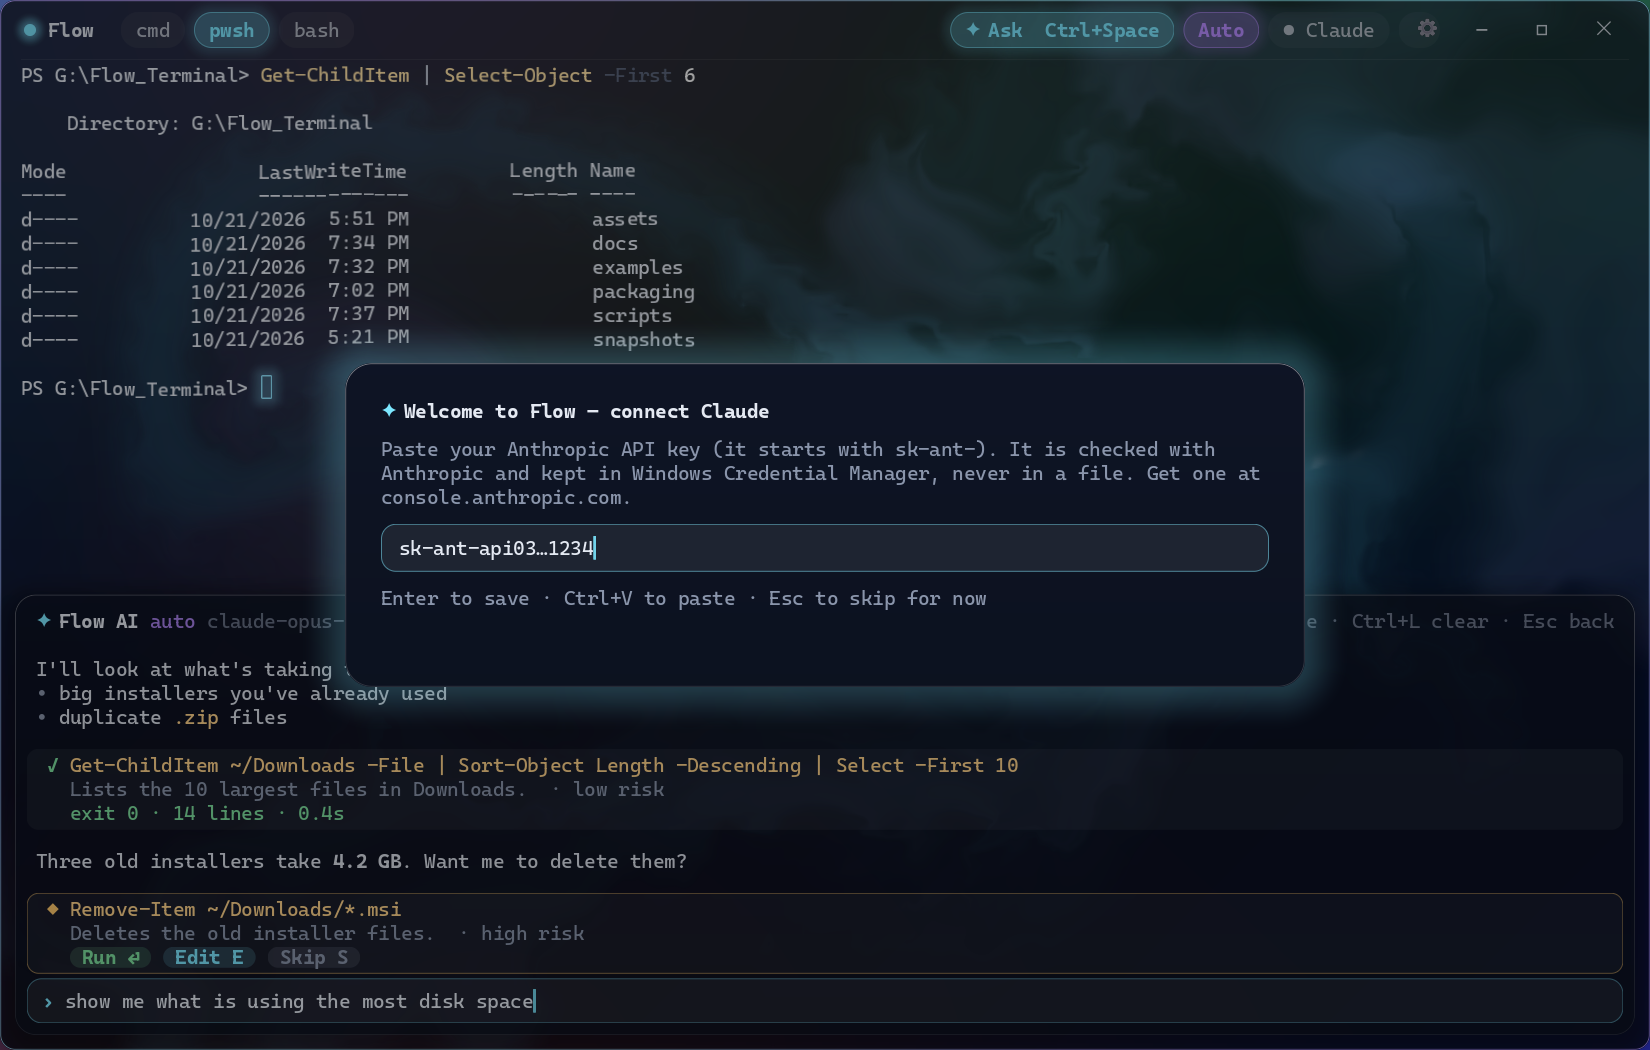
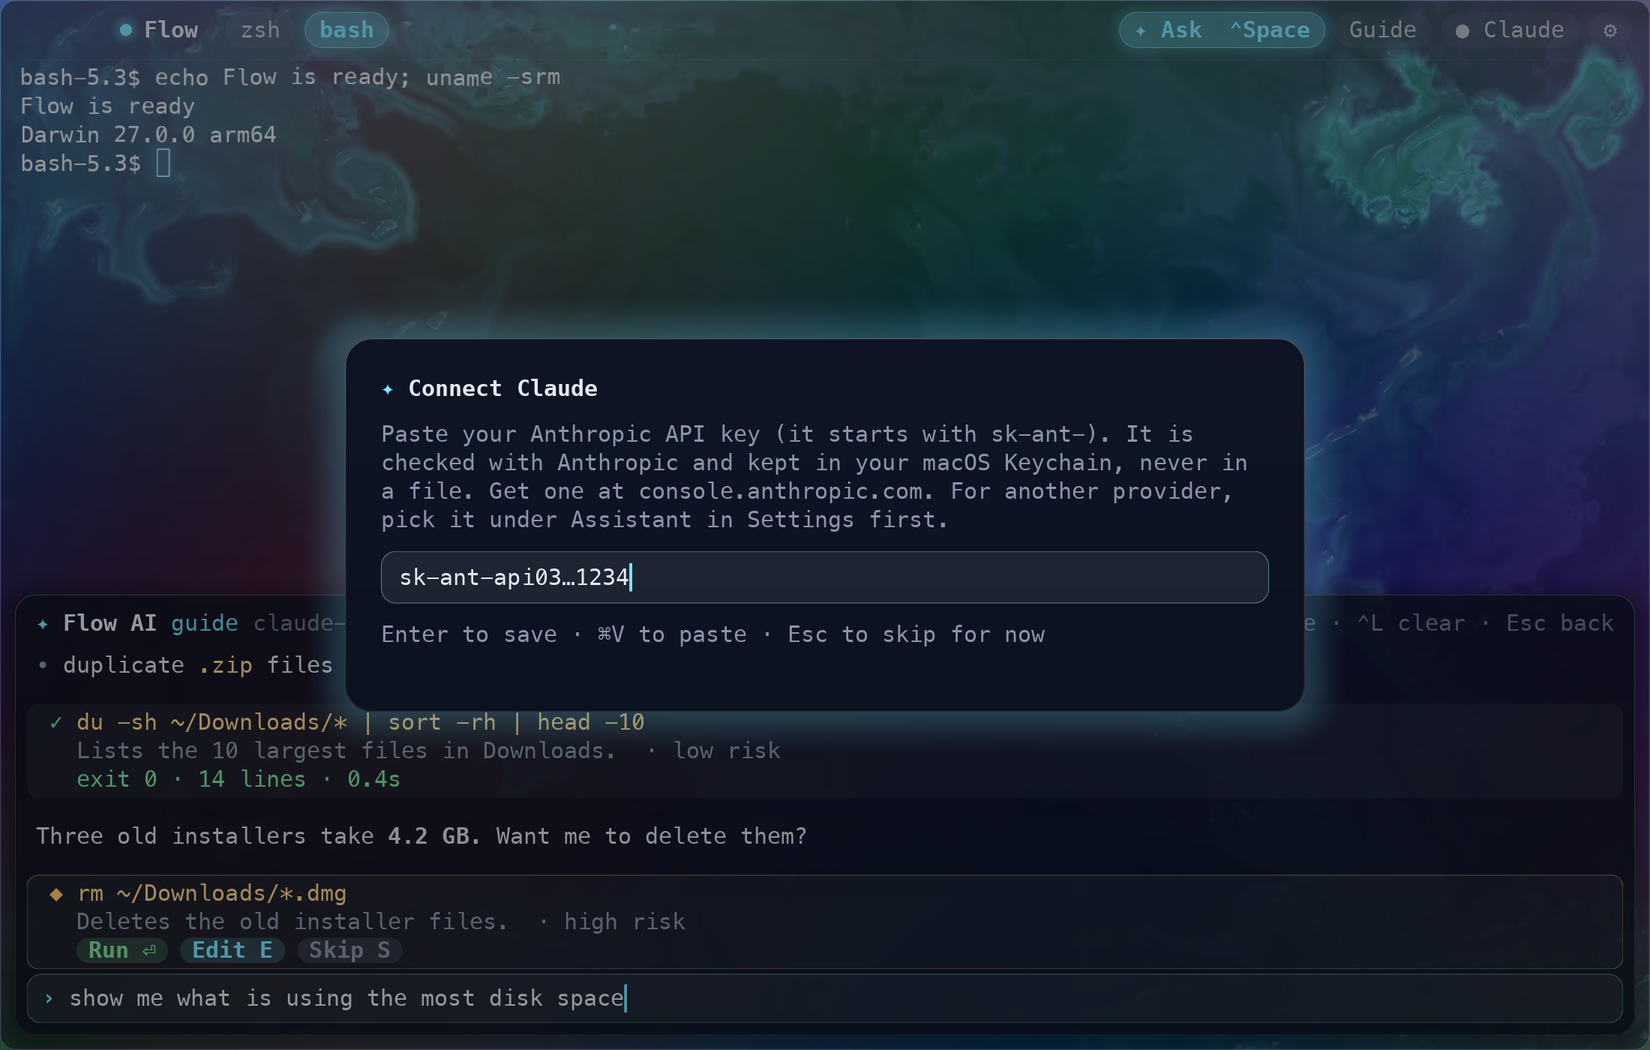
Describe GPT and Gemini, the key in Settings and the rain style
The Mac's 0.1.6 lets users pick Claude, GPT or Gemini and add the key in Settings instead of a first-start prompt, which Windows still has. Adds the rain animation, remakes the underwater one with the new bubbles, and updates the key dialog and Settings pictures.

diff --git a/README.md b/README.md
@@ -5,14 +5,15 @@
 <h1 align="center">Flow</h1>
 
 <p align="center">
-  A terminal for Windows and macOS with a liquid-glass look and Claude built in.<br>
+  A terminal for Windows and macOS with a liquid-glass look and an AI assistant built in.<br>
   <a href="https://github.com/arcanii/Flow-releases/releases/latest"><b>Download for Windows</b></a> ·
   <a href="https://github.com/arcanii/Flow-releases/releases/tag/v0.1.6-macos"><b>Download for macOS</b></a>
 </p>
 
 Type commands as usual, or describe what you want in plain English. The
 assistant suggests the steps or runs them in your shell, and asks first before
-anything risky.
+anything risky. It's Anthropic's Claude, or on the Mac, if you prefer, OpenAI's
+GPT or Google's Gemini.
 
 On Windows, cmd, PowerShell and bash each get a tab. If you don't have Git
 Bash, MSYS2 or WSL, Flow brings its own bash: BusyBox, a small POSIX shell with
@@ -43,7 +44,18 @@ Pick a style in Settings, and slow it down if you like:
     <td><b>Water from below</b>: light shafts and bubbles</td>
     <td><b>Oil</b>: a glossy, thin-film sheen</td>
   </tr>
+  <tr>
+    <td><img src="images/rain.webp" alt="Rain on the window"></td>
+    <td></td>
+  </tr>
+  <tr>
+    <td><b>Rain</b> on a fogged window: drops run down and grow, and your cursor wipes the glass</td>
+    <td></td>
+  </tr>
 </table>
+
+In Settings you can also pick the terminal's font from the monospaced fonts on
+your computer.
 
 ## Download
 
@@ -72,10 +84,20 @@ macOS 11 or later.
   **Flow → Check for Updates…** checks on demand.
 - `SHA256SUMS-macos.txt` in each macOS release lists the checksum.
 
-The assistant needs an Anthropic API key. Flow asks for it on first start and
-keeps it in Windows Credential Manager or the macOS Keychain.
+## The assistant
 
-![The first-run dialog that asks for an Anthropic API key](images/key.png)
+The assistant needs an API key from its provider, which Flow keeps in Windows
+Credential Manager or the macOS Keychain.
+
+- **On the Mac** (0.1.6 and later), Flow works as a terminal without a key and
+  never asks for one on its own. Open Settings (⌘,), pick the **Provider**
+  under Assistant (Claude, GPT or Gemini), and add that provider's key under
+  **API key**. Each provider keeps its own key. GPT and Gemini are new, so
+  expect some rough edges.
+- **On Windows**, the assistant uses Claude, and Flow asks for an Anthropic key
+  on first start.
+
+![Adding an API key](images/key.png)
 
 ## More screenshots
 
@@ -85,7 +107,7 @@ keeps it in Windows Credential Manager or the macOS Keychain.
     <td><img src="images/about.png" alt="The About dialog"></td>
   </tr>
   <tr>
-    <td>Settings: the look, the assistant, a token cap</td>
+    <td>Settings: the look, the font, the assistant and its provider, a token cap</td>
     <td>About, with a check for updates</td>
   </tr>
 </table>
